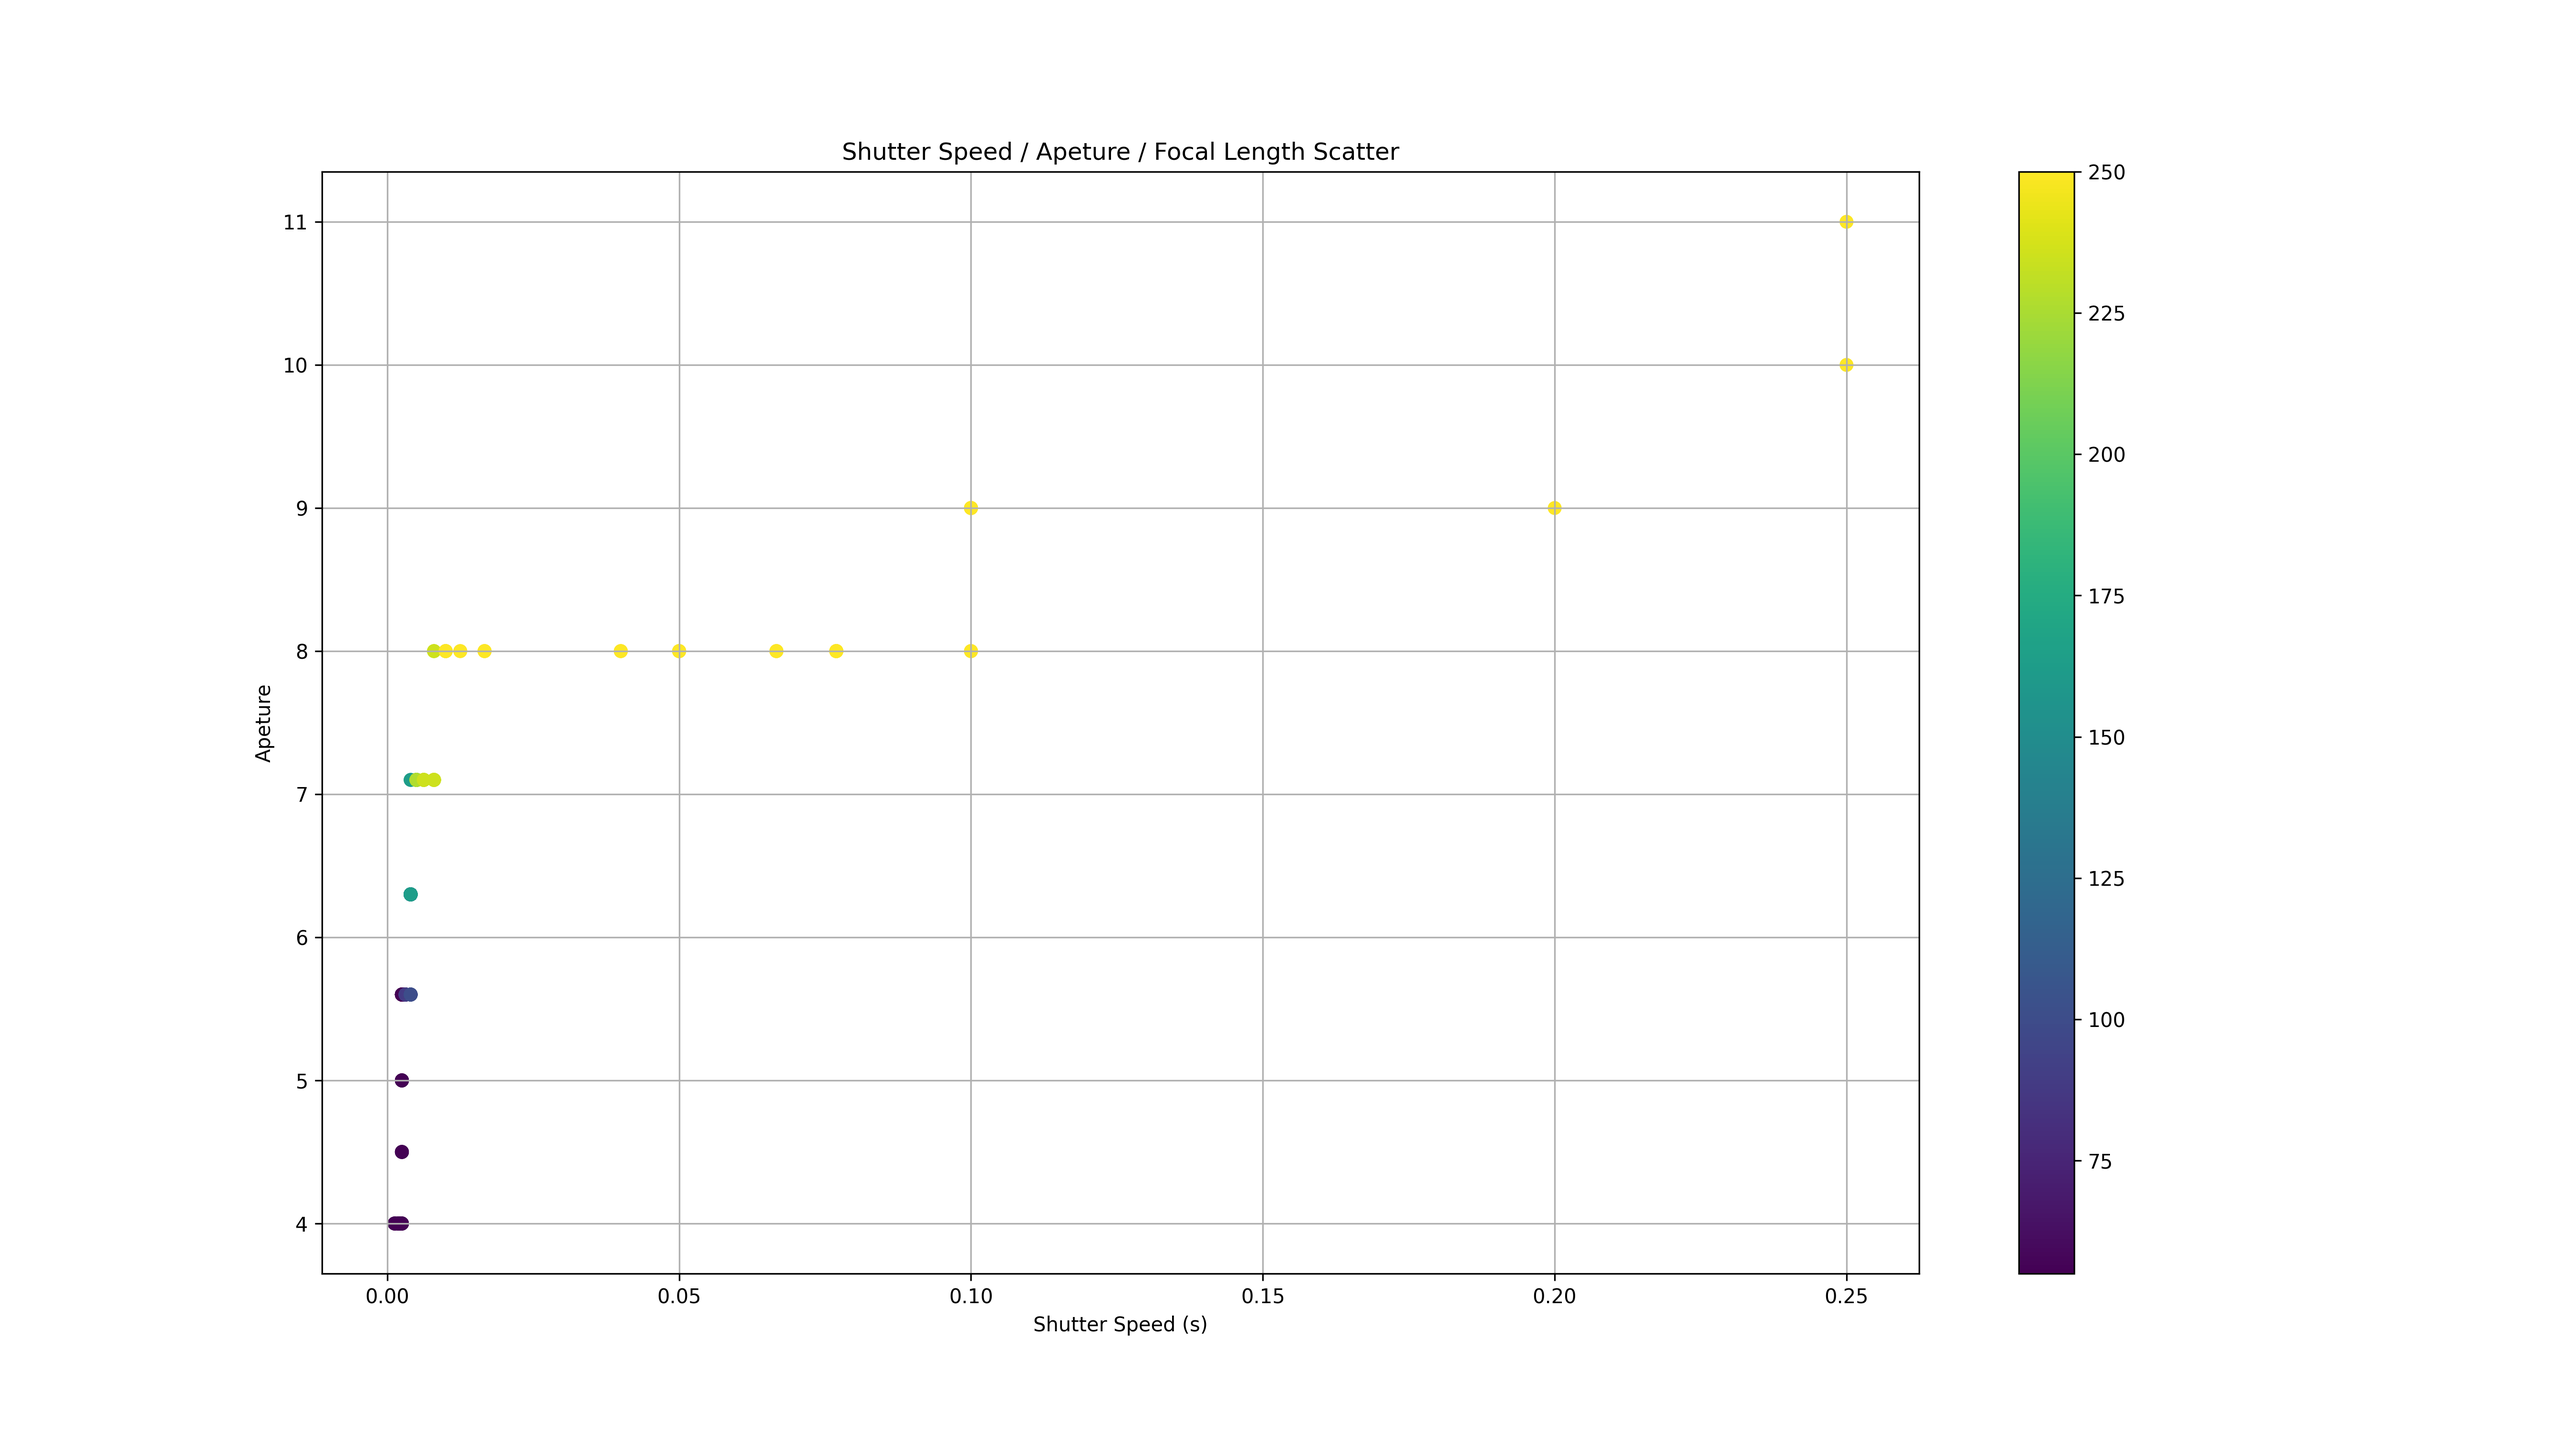
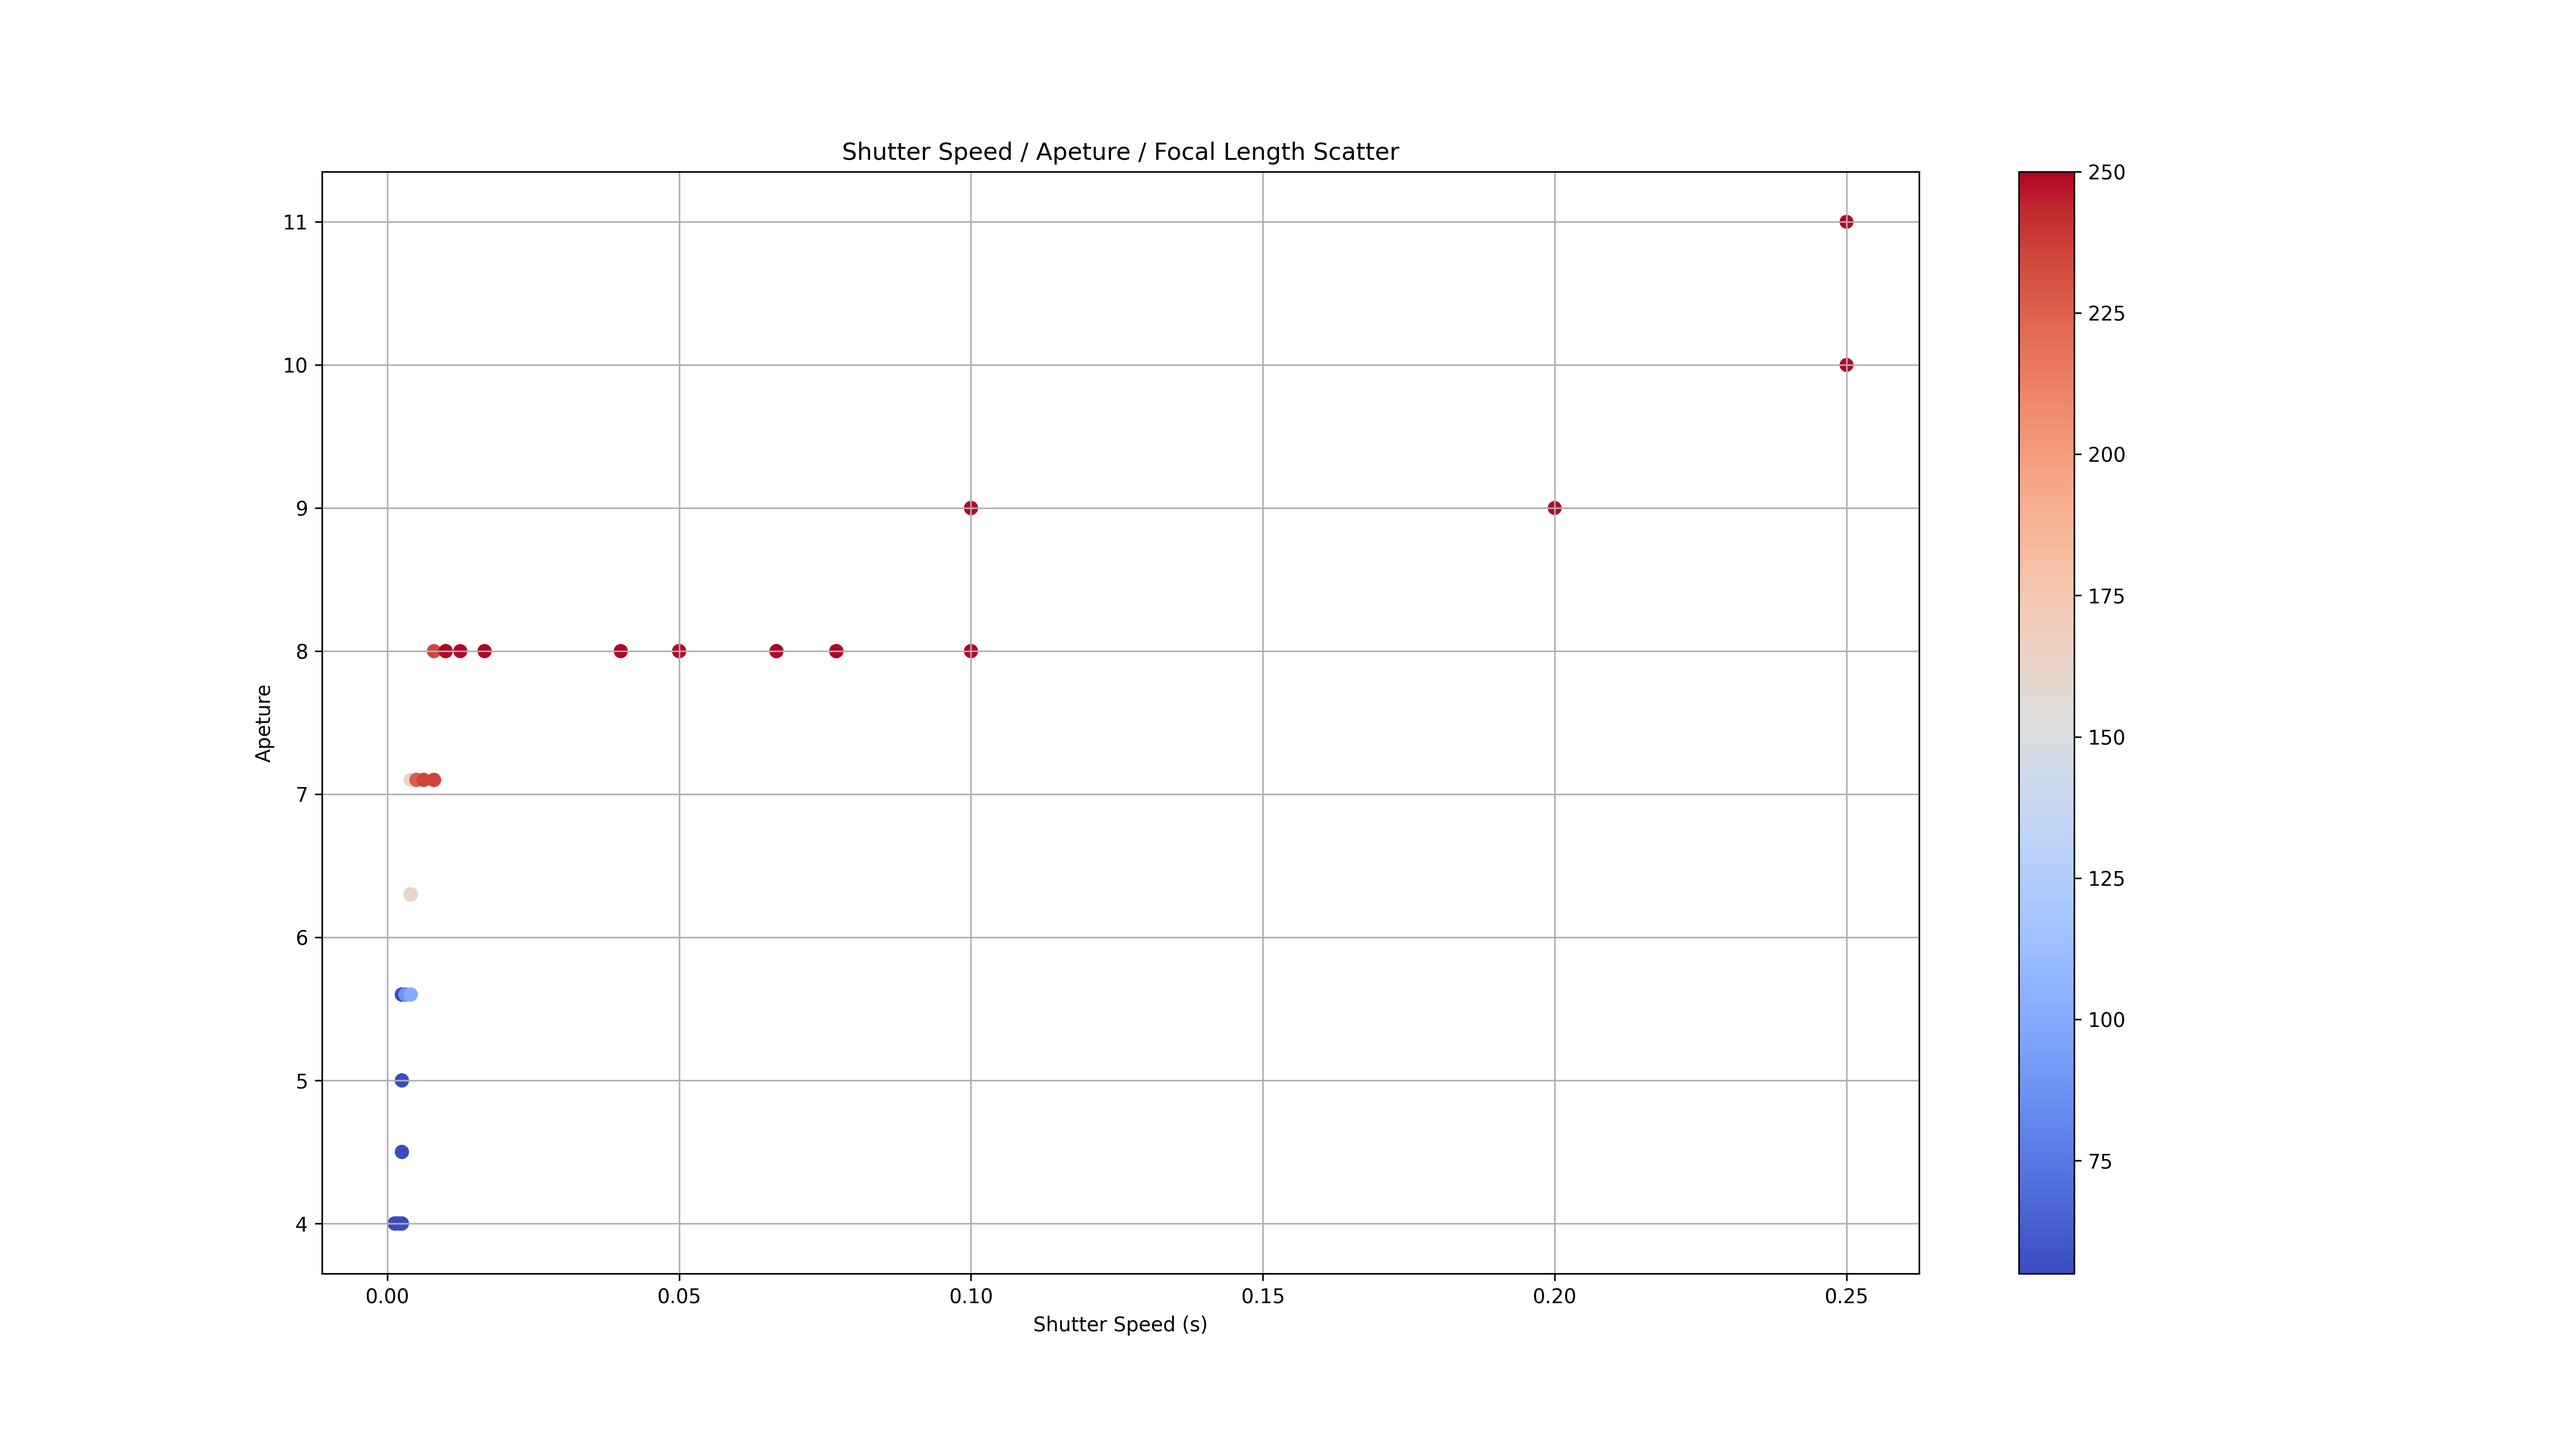
N/A coolwarm

Changed region(s): [[0.7778, 0.124, 0.8089, 0.899], [0.1556, 0.527, 0.1867, 0.558], [0.1556, 0.434, 0.1867, 0.465]]

diff --git a/read_images.py b/read_images.py
@@ -129,7 +129,7 @@ def create_shutter_speed_apeture_iso_scatter(image_metadatas, lens_model, figure
 
     # Create bar chart
     plt.figure()
-    plt.scatter(shutter_speeds, apetures, c=isos, cmap='viridis')
+    plt.scatter(shutter_speeds, apetures, c=isos, cmap='coolwarm')
     plt.title(f"Shutter Speed / Apeture / ISO Scatter")
     plt.xlabel("Shutter Speed (s)")
     plt.ylabel("Apeture")
@@ -162,7 +162,7 @@ def create_shutter_speed_apeture_focal_length_scatter(image_metadatas, lens_mode
 
     # Create bar chart
     plt.figure()
-    plt.scatter(shutter_speeds, apetures, c=focal_lengths, cmap='viridis')
+    plt.scatter(shutter_speeds, apetures, c=focal_lengths, cmap='coolwarm')
     plt.title(f"Shutter Speed / Apeture / Focal Length Scatter")
     plt.xlabel("Shutter Speed (s)")
     plt.ylabel("Apeture")
